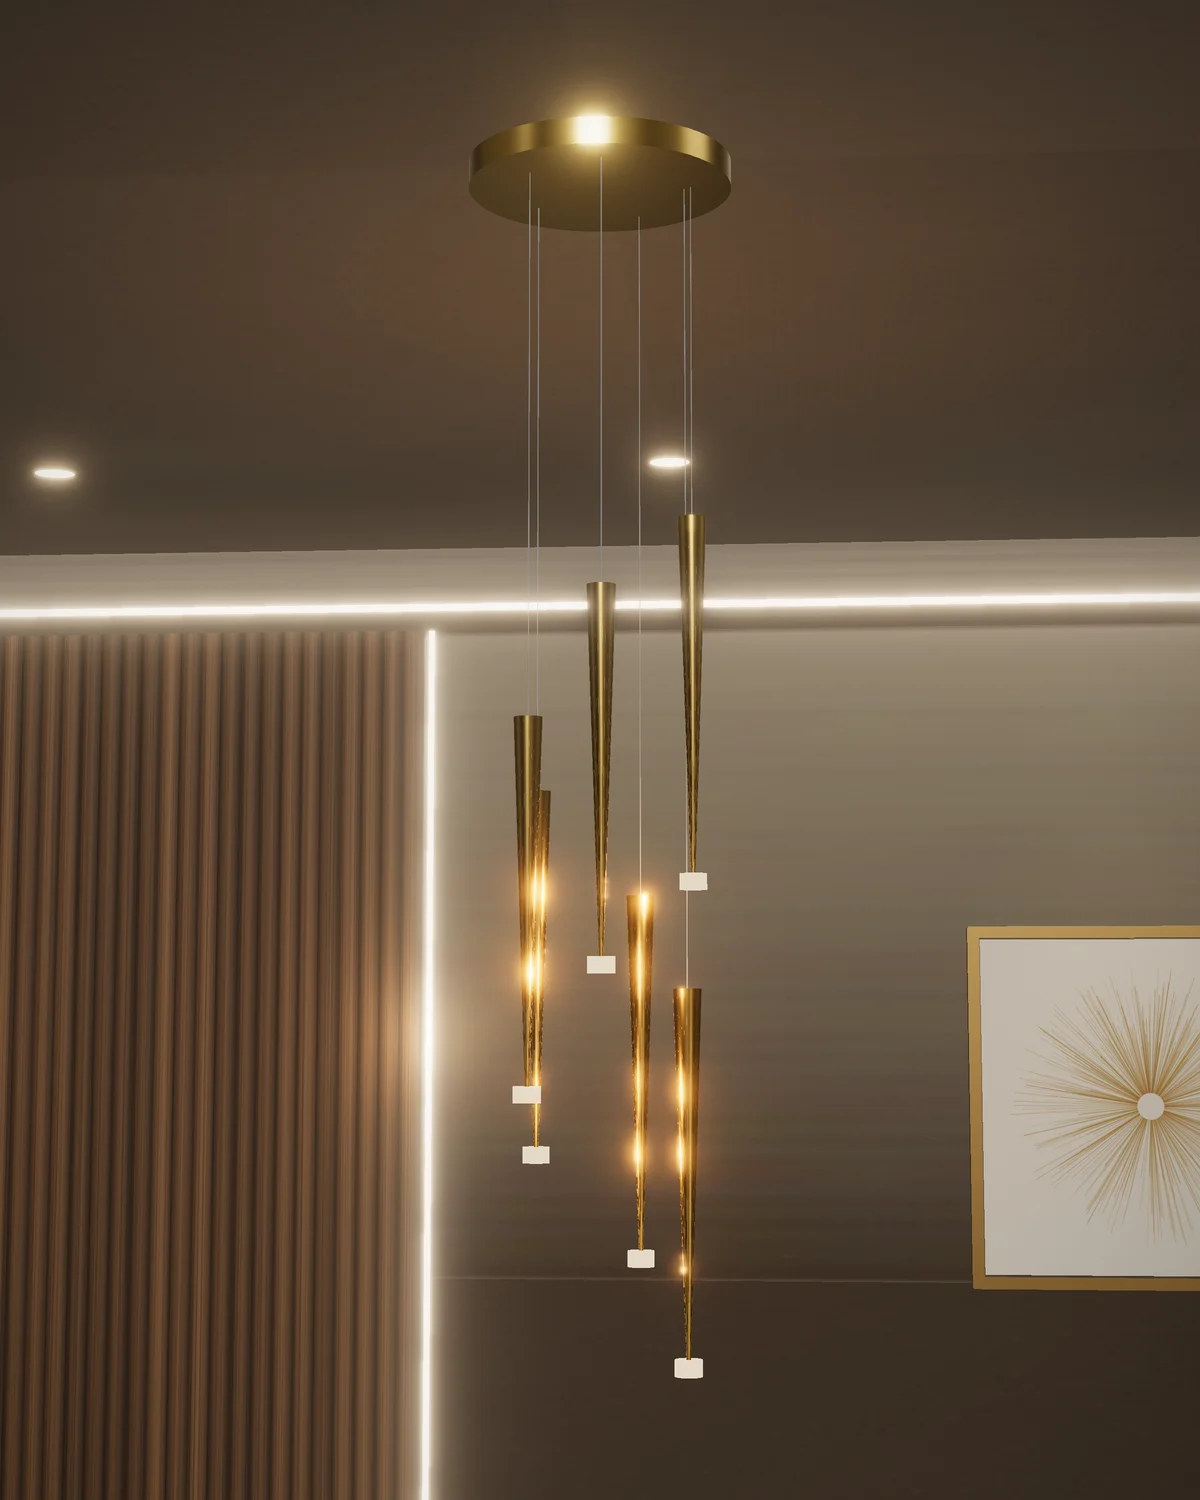
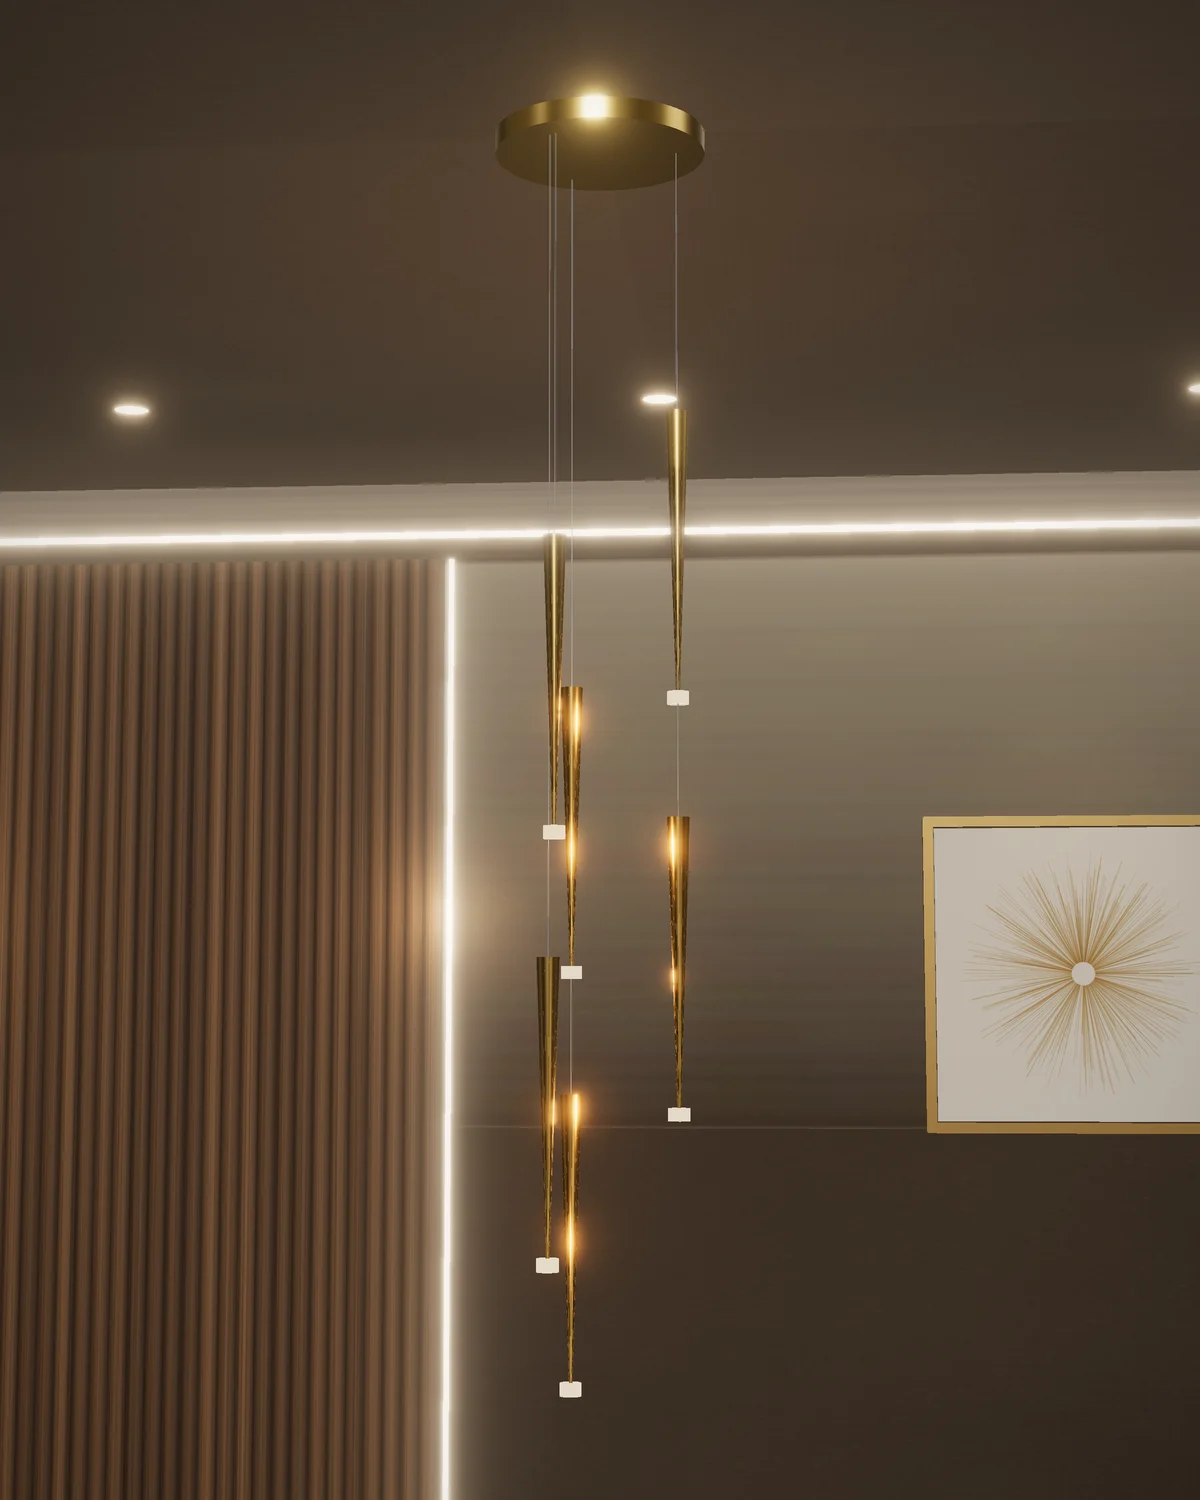
LUMÉANCE : Ondée en ligne — prix à écart régulier, cascade en spirale plus espacée
Coefficient dégressif en douceur (×1,8 → ×1,5) : 280 à 1 930 €. Visualisations refaites : cônes
plus espacés en hauteur, hélices nettes. Télécommande de série confirmée.

Claude-Session: https://claude.ai/code/session_01SpAfhHt7XcUovDXBhVzbxu

diff --git a/lumeance/lib/catalog/products.ts b/lumeance/lib/catalog/products.ts
@@ -535,8 +535,8 @@ const GINKGO_VARIANTS: ProductVariant[] = GINKGO_VERSIONS.map(([code, l, w, h, ,
 // électrolyse, embout acrylique, LED 3 W par cône, 90–260 V, intensité réglable, commande par
 // télécommande, garantie 3 ans. Promotion −15/−16 % jusqu'au 18/11/2026 ; prix hors promotion =
 // prix promotionnel + économie affichée (le « prix le plus bas des 30 jours » affiché pour 12 et
-// 40 cônes est incohérent). Règle du propriétaire : télécommande fournie, +10 € inclus — à
-// confirmer qu'elle est bien livrée de série. Couleur de lumière non précisée.
+// 40 cônes est incohérent). Télécommande livrée de série (confirmé par le propriétaire), +10 €
+// inclus (règle du propriétaire). Couleur de lumière non précisée.
 const ONDEE_REMOTE_EXTRA = 1000;
 // [cônes, pavillon Ø (cm), hauteur (cm), puissance (W), surface (m²), prix hors promotion (centimes)]
 const ONDEE_VERSIONS: [number, number, number, number, string, number][] = [
@@ -550,7 +550,14 @@ const ONDEE_VERSIONS: [number, number, number, number, string, number][] = [
   [48, 80, 650, 144, "24 à 42", 94460],
   [68, 100, 750, 204, "28 à 45", 127967],
 ];
-const ONDEE_MIN_PRICE = Math.min(...ONDEE_VERSIONS.map((v) => salePrice(v[5])));
+// Prix à écart régulier (demande du propriétaire) : coefficient dégressif en douceur, de ×1,8
+// jusqu'à 300 € d'achat à ×1,5 à partir de 1 000 €, au lieu du palier brutal de salePrice() à
+// 500 € ; arrondi à la dizaine supérieure.
+const ondeePrice = (cost: number) => {
+  const k = 1.8 - 0.3 * Math.min(1, Math.max(0, (cost - 30000) / 70000));
+  return Math.ceil((cost * k) / 1000) * 1000;
+};
+const ONDEE_MIN_PRICE = Math.min(...ONDEE_VERSIONS.map((v) => ondeePrice(v[5])));
 // Prix de base : version la moins chère, télécommande comprise.
 const ONDEE_BASE_PRICE = ONDEE_MIN_PRICE + ONDEE_REMOTE_EXTRA;
 const ONDEE_VARIANTS: ProductVariant[] = ONDEE_VERSIONS.map(([n, canopy, h, w, area, cost]) => ({
@@ -558,7 +565,7 @@ const ONDEE_VARIANTS: ProductVariant[] = ONDEE_VERSIONS.map(([n, canopy, h, w, a
   name: `${n} cônes`,
   sku: `LUM-LUS-007-C${n}`,
   finish: null,
-  priceAdjustment: salePrice(cost) - ONDEE_MIN_PRICE,
+  priceAdjustment: ondeePrice(cost) - ONDEE_MIN_PRICE,
   stockQuantity: 5,
   active: true,
   details: `Pavillon Ø${canopy} cm · hauteur ${h} cm, réglable · ${w} W · pièce de ${area} m² · télécommande fournie, intensité variable`,
@@ -1539,7 +1546,7 @@ export const CATALOG_PRODUCTS: Product[] = [
     compareAtPrice: null,
     categoryId: "demo-cat-lustres",
     categorySlug: "lustres",
-    status: "draft",
+    status: "published",
     featured: false,
     dimensions: {},
     weight: null,

diff --git a/lumeance/scripts/render/ondee-model.js b/lumeance/scripts/render/ondee-model.js
@@ -18,18 +18,22 @@ export function buildOndee({ THREE, scene, rand, n, canopy, LIGHT, GLOW, topY = 
   // Cône effilé : pointe fine en haut (attache), base Ø3,2 cm en bas.
   const coneGeo = new THREE.CylinderGeometry(R, 0.0025, CONE_H, 32, 1, true);
   const capGeo = new THREE.CylinderGeometry(R * 0.96, R * 0.96, 0.018, 32);
-  const span = 0.25 + 0.06 * Math.pow(n, 0.85);
-  const perTurn = Math.min(10, 4 + n / 5);
+  // Spirale nette : une hélice (ou plusieurs hélices imbriquées pour les grandes versions) qui
+  // descend régulièrement ; hauteur de cascade accrue pour bien séparer les cônes.
+  const span = 0.5 + 0.16 * Math.pow(n, 0.6);
+  const strands = Math.max(1, Math.ceil(n / 14));
+  const perStrand = Math.ceil(n / strands);
+  const turns = 1.25 + perStrand / 14;
   const cones = [], caps = [], wires = [];
   let minY = 0;
   const tips = [];
   for (let i = 0; i < n; i++) {
-    const t = n === 1 ? 0 : i / (n - 1);
-    const ang = (i / perTurn) * Math.PI * 2 + rand() * 0.3;
-    const shell = n > 16 ? 0.35 + 0.65 * Math.sqrt(((i * 7) % 5) / 4) : 0.85;
-    const r = (canopy / 2 - 0.03) * shell * (0.9 + rand() * 0.15);
+    const s = i % strands, k = Math.floor(i / strands);
+    const t = perStrand === 1 ? 0 : k / (perStrand - 1);
+    const ang = t * turns * Math.PI * 2 + (s * 2 * Math.PI) / strands + (rand() - 0.5) * 0.08;
+    const r = (canopy / 2 - 0.035) * (strands === 1 ? 0.95 : 1 - 0.45 * (s / (strands - 1)));
     const x = Math.cos(ang) * r, z = Math.sin(ang) * r;
-    const top = topY - t * span - rand() * 0.04; // haut du cône
+    const top = topY - t * span - (s / strands) * (span / perStrand) - rand() * 0.01; // haut du cône
     const yc = top - CONE_H / 2;
     cones.push(coneGeo.clone().translate(x, yc, z));
     caps.push(capGeo.clone().translate(x, top - CONE_H - 0.009, z));

diff --git a/lumeance/docs/STATUS.md b/lumeance/docs/STATUS.md
@@ -57,8 +57,8 @@ Légende : ✅ fait et vérifié · 🟡 fait, non vérifiable sans service exte
 - **Vérifié** : typecheck, lint, 55 tests, build OpenNext, parcours complet dans workerd (aucune violation CSP, aucune erreur console).
 
 ## Catalogue au 1er novembre 2026
-- En ligne : Céleste, Luciole, Silhouette, Nébuleuse, Constellation, Volute (applique spirale, offre « 3 achetées, la 4ᵉ offerte »), Organza (lustre phare : voiles d'acrylique, 1 à 28 plaques), Aiguille (applique tige et disque lumineux, offre « 1 achetée, la 2ᵉ à −50 % »), Halo (lustre anneaux en spirale, 3 à 48 anneaux), Ginkgo (lustre feuilles de céramique, 80 à 150 cm).
-- Brouillons : Aigrette, Sylve, Ondée (lustre cascade de cônes dorés, 6 à 68 cônes).
+- En ligne : Céleste, Luciole, Silhouette, Nébuleuse, Constellation, Volute (applique spirale, offre « 3 achetées, la 4ᵉ offerte »), Organza (lustre phare : voiles d'acrylique, 1 à 28 plaques), Aiguille (applique tige et disque lumineux, offre « 1 achetée, la 2ᵉ à −50 % »), Halo (lustre anneaux en spirale, 3 à 48 anneaux), Ginkgo (lustre feuilles de céramique, 80 à 150 cm), Ondée (lustre cascade de cônes dorés, 6 à 68 cônes).
+- Brouillons : Aigrette, Sylve.
 
 ## Points ouverts — à traiter avec le propriétaire
 - Pages légales : 20+ champs « À compléter » visibles (raison sociale, SIRET, adresse, directeur de publication, hébergeur, médiateur, responsable de traitement).
